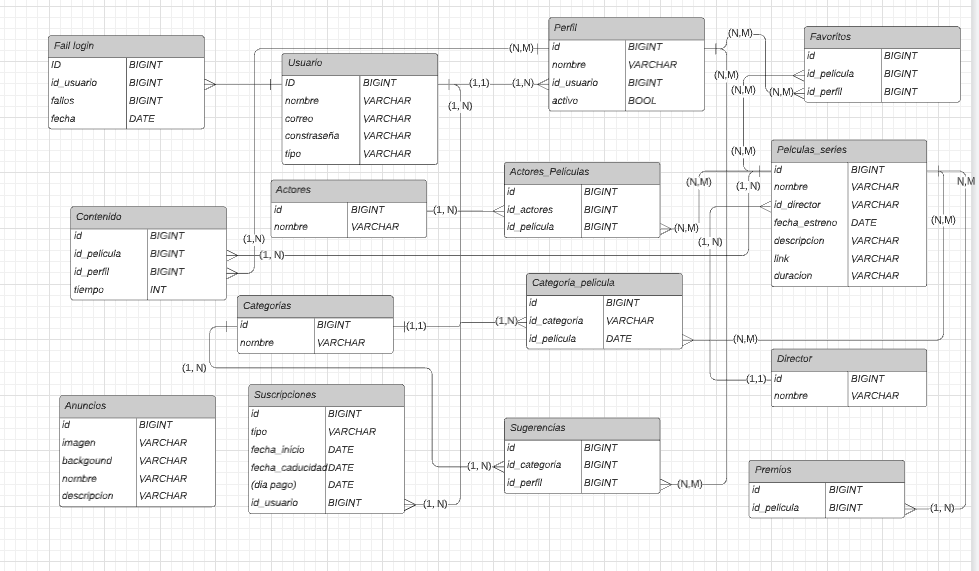
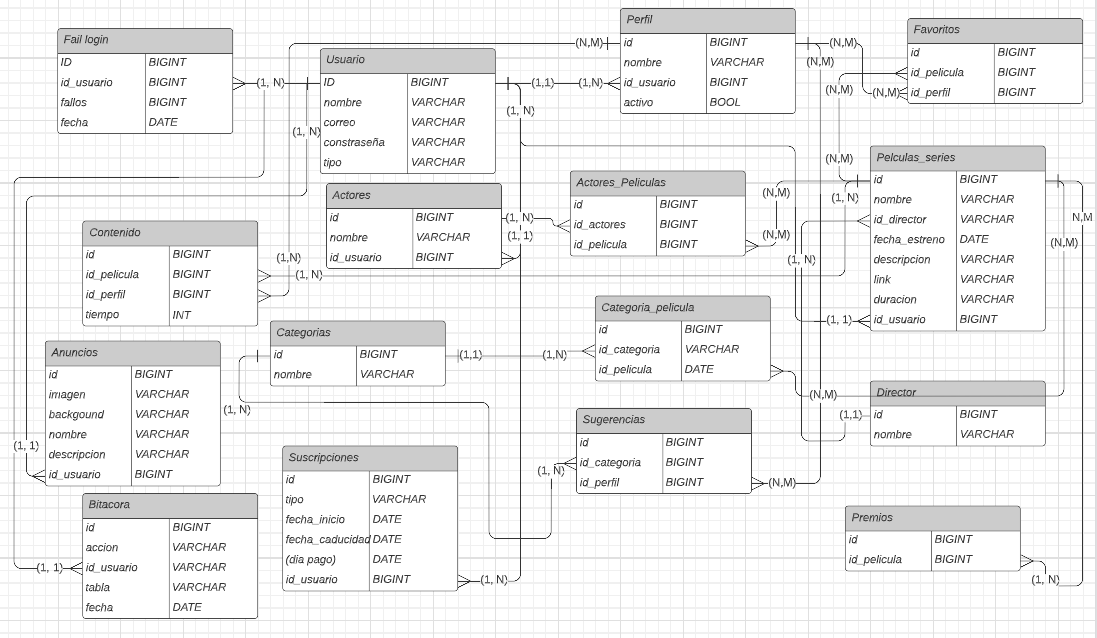
Bitacore premerge.

diff --git a/frontend/src/app/pages/admin/users/users.component.ts b/frontend/src/app/pages/admin/users/users.component.ts
@@ -11,6 +11,7 @@ import {
 import {
   GeneralService
 } from 'src/app/services/general.service';
+import Swal from 'sweetalert2';
 
 @Component({
   selector: 'app-users',
@@ -42,6 +43,26 @@ export class UsersComponent implements OnInit {
 
   edit(id: string) {
     this.router.navigate(['admin/user/' + id]);
+  }
+
+  destroy(id: string) {
+    Swal.fire({
+      title: '¡Atención!',
+      text: '¿Está seguro de eliminar este usuario?',
+      icon: 'question',
+      showCancelButton: true,
+      confirmButtonText: 'Aceptar',
+      cancelButtonText: 'Cancelar',
+      reverseButtons: true
+    }).then(result => {
+      if (result.isConfirmed) {
+        this.spinner.show();
+        this.general_service.getAuth('delete-user/'+ id).then(() => {
+          this.getActors();
+          this.spinner.hide();
+        });
+      }
+    })
   }
 
 }

diff --git a/frontend/src/app/pages/admin/users/users.component.html b/frontend/src/app/pages/admin/users/users.component.html
@@ -66,8 +66,11 @@
                             <td>{{actor.email}}</td>
                             <td>{{actor.tipo}}</td>
                             <td>
-                                <button (click)="edit(actor.id)" class="btn btn-warning">
+                                <button (click)="edit(actor.id)" class="btn btn-warning m-1">
                                     <i class="bi bi-pencil-fill"></i>
+                                </button>
+                                <button (click)="destroy(actor.id)" class="btn btn-danger">
+                                    <i class="bi bi-trash-fill"></i>
                                 </button>
                             </td>
                         </tr>

diff --git a/frontend/src/app/pages/admin/addnew/addnew.component.html b/frontend/src/app/pages/admin/addnew/addnew.component.html
@@ -73,7 +73,7 @@
         </div><br>
         <div class="form-group">
             <label>Fecha de estreno</label>
-            <input formControlName="fecha_estreno" class="form-control" placeholder="Nombre">
+            <input formControlName="fecha_estreno" class="form-control" placeholder="Nombre" type="date">
             <div class="errors" *ngIf="fecha_estreno?.invalid && (fecha_estreno?.dirty || fecha_estreno?.touched)">
                 <span *ngIf="fecha_estreno?.errors?.['required']">
                     <small>La fecha de estreno es requerida.</small>

diff --git a/backend/routes/api.php b/backend/routes/api.php
@@ -29,6 +29,7 @@ Route::get('/user', [UserController::class, 'get'])->middleware('auth:api');
 Route::get('/user/{id}', [UserController::class, 'show'])->middleware('auth:api');
 Route::post('/user', [UserController::class, 'save_user'])->middleware('auth:api');
 Route::put('/user', [UserController::class, 'update'])->middleware('auth:api');
+Route::get('/delete-user/{id}', [UserController::class, 'destroy'])->middleware('auth:api');
 Route::get('/la-capital/{id}', [FavoriteController::class, 'laCapital'])->middleware('auth:api');
 Route::get('/user-list', [UserController::class, 'list'])->middleware('auth:api');
 Route::get('/list-content-profile/{perfil}', [ContentController::class, 'listProfile'])->middleware('auth:api');

diff --git a/backend/app/Http/Controllers/MovieSerie/MovieSerieController.php b/backend/app/Http/Controllers/MovieSerie/MovieSerieController.php
@@ -75,8 +75,8 @@ class MovieSerieController extends Controller
                 return response(['result' => 'fail', 'message' => $mov_serie_validator->errors()], 500);
             }
 
-            /* $data['id_usuario'] = auth()->user()->id;
-            $data['activo'] = true; */
+            $data['id_usuario'] = auth()->user()->id;
+            /*$data['activo'] = true; */
             
             MovieSerie::create($data);
             

diff --git a/backend/app/Http/Controllers/Anuncio/AnuncioController.php b/backend/app/Http/Controllers/Anuncio/AnuncioController.php
@@ -34,8 +34,8 @@ class AnuncioController extends Controller
                 return response(['result' => 'fail', 'message' => $categories_validator->errors()], 500);
             }
 
-            /* $data['id_usuario'] = auth()->user()->id;
-            $data['activo'] = true; */
+            $data['id_usuario'] = auth()->user()->id;
+            /*$data['activo'] = true; */
             
             Anuncio::create($data);
             

diff --git a/backend/app/Models/MovieSerie.php b/backend/app/Models/MovieSerie.php
@@ -9,6 +9,6 @@ class MovieSerie extends Model
 {
     use HasFactory;
     protected $table = 'peliculas_series';
-    protected $fillable = ['id', 'nombre', 'id_director', 'tipo', 'fecha_estreno', 'descripcion', 'duracion', 'link_video', 'portada'];
+    protected $fillable = ['id', 'nombre', 'id_director', 'tipo', 'fecha_estreno', 'descripcion', 'duracion', 'link_video', 'portada', 'id_usuario'];
     public $timestamps = false;
 }

diff --git a/backend/app/Http/Controllers/Actor/ActorController.php b/backend/app/Http/Controllers/Actor/ActorController.php
@@ -40,6 +40,8 @@ class ActorController extends Controller
                 return response(['result' => 'fail', 'message' => $actor_validator->errors()], 500);
             }
             
+            $data['id_usuario'] = auth()->user()->id;
+            
             Actor::create($data);
             
             return ['result' => 'success', "message"=> 'Actor almacenado exitósamente.'];

diff --git a/backend/app/Http/Controllers/User/UserController.php b/backend/app/Http/Controllers/User/UserController.php
@@ -158,4 +158,15 @@ class UserController extends Controller
         }
     }
 
+    public function destroy($id)
+    {
+        $user = User::find($id);
+
+        if($user->delete()){
+            return ['result' => 'success', 'message' => 'Eliminado exitósamente.'];
+        } else {
+            return ['result' => 'fail', "message"=> "Error"];
+        }
+    }
+
 }

diff --git a/backend/app/Models/Anuncio.php b/backend/app/Models/Anuncio.php
@@ -9,6 +9,6 @@ class Anuncio extends Model
 {
     use HasFactory;
     protected $table = 'anuncios';
-    protected $fillable = ['id', 'imagen', 'background', 'nombre', 'descripcion'];
+    protected $fillable = ['id', 'imagen', 'background', 'nombre', 'descripcion', 'id_usuario'];
     public $timestamps = false;
 }

diff --git a/backend/app/Models/Actor.php b/backend/app/Models/Actor.php
@@ -9,6 +9,6 @@ class Actor extends Model
 {
     use HasFactory;
     protected $table = 'actores';
-    protected $fillable = ['id', 'nombre'];
+    protected $fillable = ['id', 'nombre', 'id_usuario'];
     public $timestamps = false;
 }
